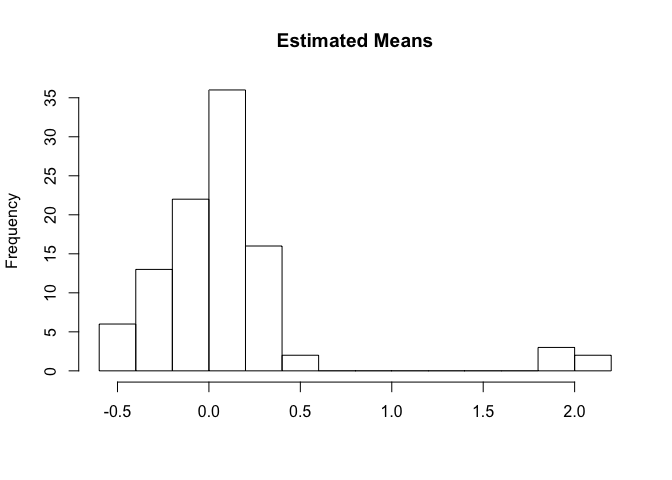
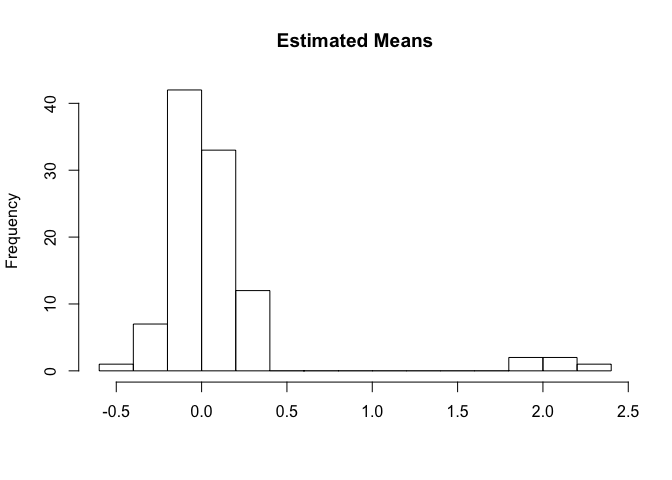
error checking added

diff --git a/vignettes/farmtest-vignette.html b/vignettes/farmtest-vignette.html
@@ -77,7 +77,7 @@ code > span.in { color: #60a0b0; font-weight: bold; font-style: italic; } /* Inf
 <hr />
 <div id="goal-of-the-package" class="section level2">
 <h2>Goal of the package</h2>
-<p>This R package conducts multiple hypothesis testing of mean effects. It implements a robust procedure to estimate distribution parameters and accounts for strong dependence among coordinates via an approximate factor model. This method is particularly suitable for high-dimensional data when there are thousands of variables but only a small number of observations available. Moreover, the method is tailored to cases when the underlying distribution deviates from Gaussianity, which is commonly assumed in the literature. See the paper on this method, Zhou et al.(2017)<a href="https://goo.gl/68SJpd" class="uri">https://goo.gl/68SJpd</a>, for detailed description of methods and further references.</p>
+<p>This R package conducts multiple hypothesis testing of mean effects. It implements a robust procedure to estimate distribution parameters and accounts for strong dependence among coordinates via an approximate factor model. This method is particularly suitable for high-dimensional data when there are thousands of variables but only a small number of observations available. Moreover, the method is tailored to cases when the underlying distribution deviates from Gaussianity, which is commonly assumed in the literature. See the papers on this method, <span class="citation">(Fan et al. 2017)</span> and <span class="citation">(Zhou et al. 2017)</span>, for detailed description of methods and further references.</p>
[1 lines of base64/hex data omitted]
 </div>
 <div id="installation" class="section level2">
@@ -138,7 +138,7 @@ output</code></pre></div>
 ## alternative hypothesis: two.sided
 ## hypotheses rejected:
 ##  6</code></pre>
-<p>The robustness is controlled by the parameter of the Huber loss function. This can be chosen by cross-validation which takes a long time, but gives good results. Alternatively, we use the parameter <span class="math inline">\(tau*sd*rate\)</span> where tau is a constant, rate is the optimal rate for the tuning parameter (see Fan et al.(2017) <a href="https://arxiv.org/abs/1612.08490" class="uri">https://arxiv.org/abs/1612.08490</a>). sd is the standard deviation of the data at hand. The value of <span class="math inline">\(tau\)</span> can be supplied by the user and takes a default value of 2.</p>
+<p>The robustness is controlled by the parameter of the Huber loss function. This can be chosen by cross-validation which takes a long time, but gives good results. Alternatively, we use the parameter <span class="math inline">\(tau*sd*rate\)</span> where tau is a constant, rate is the optimal rate for the tuning parameter. See <span class="citation">(Fan et al. 2017)</span>. sd is the standard deviation of the data at hand. The value of <span class="math inline">\(tau\)</span> can be supplied by the user and takes a default value of 2.</p>
 <div class="sourceCode"><pre class="sourceCode r"><code class="sourceCode r">##examples of other robustification options
 output =<span class="st"> </span><span class="kw">farm.test</span>(X, <span class="dt">robust =</span> <span class="ot">FALSE</span>, <span class="dt">verbose=</span><span class="ot">FALSE</span>) <span class="co">#non-robust</span>
 output =<span class="st"> </span><span class="kw">farm.test</span>(X, <span class="dt">tau =</span> <span class="dv">3</span>, <span class="dt">verbose=</span><span class="ot">FALSE</span>) <span class="co">#robust, no cross-validation, specified tau</span>
@@ -231,8 +231,14 @@ covhat =<span class="st"> </span><span class="kw">farm.cov</span>(X)</code></pre
 <li>For up to date information and questions/comments see the project page at <a href="https://kbose28.github.io/FarmTest/" class="uri">https://kbose28.github.io/FarmTest/</a>.</li>
 </ol>
 <div id="refs" class="references">
+<div id="ref-fan2017">
+<p>Fan, J., Y. Ke, Q. Sun, and W.-X. Zhou. 2017. “FARM-Test: Factor-Adjusted Robust Multiple Testing with False Discovery Control.” <a href="https://arxiv.org/abs/1711.05386" class="uri">https://arxiv.org/abs/1711.05386</a>.</p>
+</div>
 <div id="ref-storey2015">
-<p>Storey, JD. 2015. “Qvalue: Q-Value Estimation for False Discovery Rate Control.” <em>R Package Version 2.8.0</em>. <a href="http://github.com/jdstorey/qvalue" class="uri">http://github.com/jdstorey/qvalue</a>.</p>
+<p>Storey, J.D. 2015. “Qvalue: Q-Value Estimation for False Discovery Rate Control.” <em>R Package Version 2.8.0</em>. <a href="http://github.com/jdstorey/qvalue" class="uri">http://github.com/jdstorey/qvalue</a>.</p>
+</div>
+<div id="ref-zhou2017">
+<p>Zhou, W.-X., K. Bose, J. Fan, and H. Liu. 2017. “A New Perspective on Robust M-Estimation: Finite Sample Theory and Applications to Dependence-Adjusted Multiple Testing.” <em>Annals of Statistics, to Appear</em>. <a href="https://arxiv.org/abs/1711.05381" class="uri">https://arxiv.org/abs/1711.05381</a>.</p>
 </div>
 </div>
 </div>

diff --git a/README.md b/README.md
@@ -6,7 +6,7 @@ FarmTest: Factor Adjusted Robust Multiple Testing
 Goal of the package
 -------------------
 
-This R package conducts multiple hypothesis testing of mean effects. It implements a robust procedure to estimate distribution parameters and accounts for strong dependence among coordinates via an approximate factor model. This method is particularly suitable for high-dimensional data when there are thousands of variables but only a small number of observations available. Moreover, the method is tailored to cases when the underlying distribution deviates from Gaussianity, which is commonly assumed in the literature. See the paper on this method, Zhou et al.(2017)<https://goo.gl/68SJpd>, for detailed description of methods and further references.
+This R package conducts multiple hypothesis testing of mean effects. It implements a robust procedure to estimate distribution parameters and accounts for strong dependence among coordinates via an approximate factor model. This method is particularly suitable for high-dimensional data when there are thousands of variables but only a small number of observations available. Moreover, the method is tailored to cases when the underlying distribution deviates from Gaussianity, which is commonly assumed in the literature. See the papers on this method, (Fan et al. 2017) and (Zhou et al. 2017), for detailed description of methods and further references.
 
 The observed data *X* is assumed to follow a factor model ![equation](https://latex.codecogs.com/gif.latex?X%20%3D%20%5Cmu%20+%20Bf%20+%20u), where *f* are the underlying factors, *B* are the factors loadings, *u* are the errors, and *μ* is the mean effect to be tested. We assume the data is of dimension *p* and the sample size is *n*, leading to *p* hypothesis tests.
 
@@ -55,29 +55,38 @@ There are five functions available.
 Simple hypothesis testing example
 ---------------------------------
 
-Here we generate data from a factor model with 3 factors. We have 20 samples of 100 dimensional data. The first five means are set to 2, while the other ones are 0. We conduct a hypotheses test for these means.
+Here we generate data from a factor model with 3 factors. We have 50 samples of 100 dimensional data. The first five means are set to 2, while the other ones are 0. We conduct a hypotheses test for these means.
 
 ``` r
 library(FarmTest)
 set.seed(100)
 p = 100
-n = 20
+n = 50
 epsilon = matrix(rnorm( p*n, 0,1), nrow = n)
-B = matrix(rnorm(p*3,0,1), nrow=p)
+B = matrix(runif(p*3,-2,2), nrow=p)
 fx = matrix(rnorm(3*n, 0,1), nrow = n)
 mu = rep(0, p)
 mu[1:5] = 2
 X = rep(1,n)%*%t(mu)+fx%*%t(B)+ epsilon
-output = farm.test(X)
+output = farm.test(X, cv=FALSE)#robust, no cross-validation
 output
 #> 
 #>  One Sample Robust Test with Unknown Factors
 #> 
-#> p = 100, n = 20, nfactors = 3
+#> p = 100, n = 50, nfactors = 3
 #> FDR to be controlled at: 0.05
 #> alternative hypothesis: two.sided
 #> hypotheses rejected:
-#>  7
+#>  6
+```
+
+The robustness is controlled by the parameter of the Huber loss function. This can be chosen by cross-validation which takes a long time, but gives good results. Alternatively, we use the parameter *t**a**u* \* *s**d* \* *r**a**t**e* where tau is a constant, rate is the optimal rate for the tuning parameter. See (Fan et al. 2017). sd is the standard deviation of the data at hand. The value of *t**a**u* can be supplied by the user and takes a default value of 2.
+
+``` r
+##examples of other robustification options
+output = farm.test(X, robust = FALSE, verbose=FALSE) #non-robust
+output = farm.test(X, tau = 3, verbose=FALSE) #robust, no cross-validation, specified tau
+#output = farm.test(X) #robust, cross-validation, longer running
 ```
 
 Now we carry out a one-sided test, with the FDR to be controlled at 1%. Then we examine the output
@@ -88,7 +97,7 @@ output
 #> 
 #>  One Sample Robust Test with Unknown Factors
 #> 
-#> p = 100, n = 20, nfactors = 3
+#> p = 100, n = 50, nfactors = 3
 #> FDR to be controlled at: 0.01
 #> alternative hypothesis: greater
 #> hypotheses rejected:
@@ -99,15 +108,44 @@ names(output)
 #> [11] "n"           "p"           "alpha"       "type"        "significant"
 print(output$rejected)
 #>      index       pvalue pvalue adjusted
-#> [1,]     4 9.385803e-25    9.385803e-23
-#> [2,]     1 2.097004e-18    1.048502e-16
-#> [3,]     2 4.365903e-17    1.455301e-15
-#> [4,]     5 2.583264e-11    6.458161e-10
-#> [5,]     3 3.304799e-11    6.609598e-10
+#> [1,]     3 5.512356e-74    2.867494e-72
+#> [2,]     1 1.297040e-59    3.373561e-58
+#> [3,]     5 1.074999e-45    1.864027e-44
+#> [4,]     4 1.556500e-33    2.024205e-32
+#> [5,]     2 1.798489e-10    1.871126e-09
 hist(output$means, 10, main = "Estimated Means", xlab = "")
 ```
 
-![](README-unnamed-chunk-3-1.png)
+![](README-unnamed-chunk-4-1.png)
+
+A two-sample test is done as follows:
+
+``` r
+n2 = 25
+epsilon = matrix(rnorm( p*n2, 0,1), nrow = n2)
+B = matrix(rnorm(p*3,0,1), nrow=p)
+fy = matrix(rnorm(3*n2, 0,1), nrow = n2)
+Y = fy%*%t(B)+ epsilon
+output = farm.test(X=X,Y=Y)
+output
+#> 
+#>  Two Sample Robust Test with Unknown Factors
+#> 
+#> p = 100, nX = 50, nY = 25, X.nfactors = 3, Y.nfactors = 3
+#> FDR to be controlled at: 0.05
+#> alternative hypothesis: two.sided
+#> hypotheses rejected:
+#>  5
+print(output$rejected)
+#>      index       pvalue pvalue adjusted
+#> [1,]     4 1.034103e-29    1.034103e-27
+#> [2,]     5 1.276966e-27    6.384831e-26
+#> [3,]     1 1.147628e-17    3.825428e-16
+#> [4,]     3 1.822131e-10    4.555326e-09
+#> [5,]     2 6.040175e-10    1.208035e-08
+names(output$means)
+#> [1] "X.mean" "Y.mean"
+```
 
 Other functions
 ---------------
@@ -116,12 +154,19 @@ The function `farm.scree` makes some informative plots. It is possible to specif
 
 ``` r
 output = farm.scree(X, K.factors = 15, K.scree = 10, show.plot = TRUE)
-#> Warning in farm.scree(X, K.factors = 15, K.scree = 10, show.plot =
-#> TRUE): Number of factors supplied is > min(n,p)/2. May cause numerical
-#> inconsistencies
 ```
 
-![](README-unnamed-chunk-4-1.png)![](README-unnamed-chunk-4-2.png)
+![](README-unnamed-chunk-6-1.png)![](README-unnamed-chunk-6-2.png)
+
+``` r
+output
+#> Summary of eigenvalue ratio test
+#>   Number of factors found: 3
+#>   Proportion of variation explained by the top 3 principal components: 72.94%
+plot(output, scree.plot=FALSE, col="blue", main="Customized plot")
+```
+
+![](README-unnamed-chunk-6-3.png)
 
 We see a warning telling us that it is not a good idea to calculate 15 eigenvalues from a dataset that has only 20 samples.
 
@@ -154,4 +199,8 @@ Notes
 
 4.  See individual function documentation for detailed description of methods and their references.
 
-Storey, JD. 2015. “Qvalue: Q-Value Estimation for False Discovery Rate Control.” *R Package Version 2.8.0*. <https://github.com/jdstorey/qvalue>.
+Fan, J., Y. Ke, Q. Sun, and W.-X. Zhou. 2017. “FARM-Test: Factor-Adjusted Robust Multiple Testing with False Discovery Control.” *arXiv*. <https://arxiv.org/abs/1711.05386>.
+
+Storey, J.D. 2015. “Qvalue: Q-Value Estimation for False Discovery Rate Control.” *R Package Version 2.8.0*. <http://github.com/jdstorey/qvalue>.
+
+Zhou, W.-X., K. Bose, J. Fan, and H. Liu. 2017. “A New Perspective on Robust M-Estimation: Finite Sample Theory and Applications to Dependence-Adjusted Multiple Testing.” *Annals of Statistics, to Appear*. <https://arxiv.org/abs/1711.05381>.

diff --git a/cran-comments.md b/cran-comments.md
@@ -1,5 +1,5 @@
-This is an update adding some functions
----------------------------------------
+This is an update adding options to some functions
+--------------------------------------------------
 
 Test environments
 -----------------
